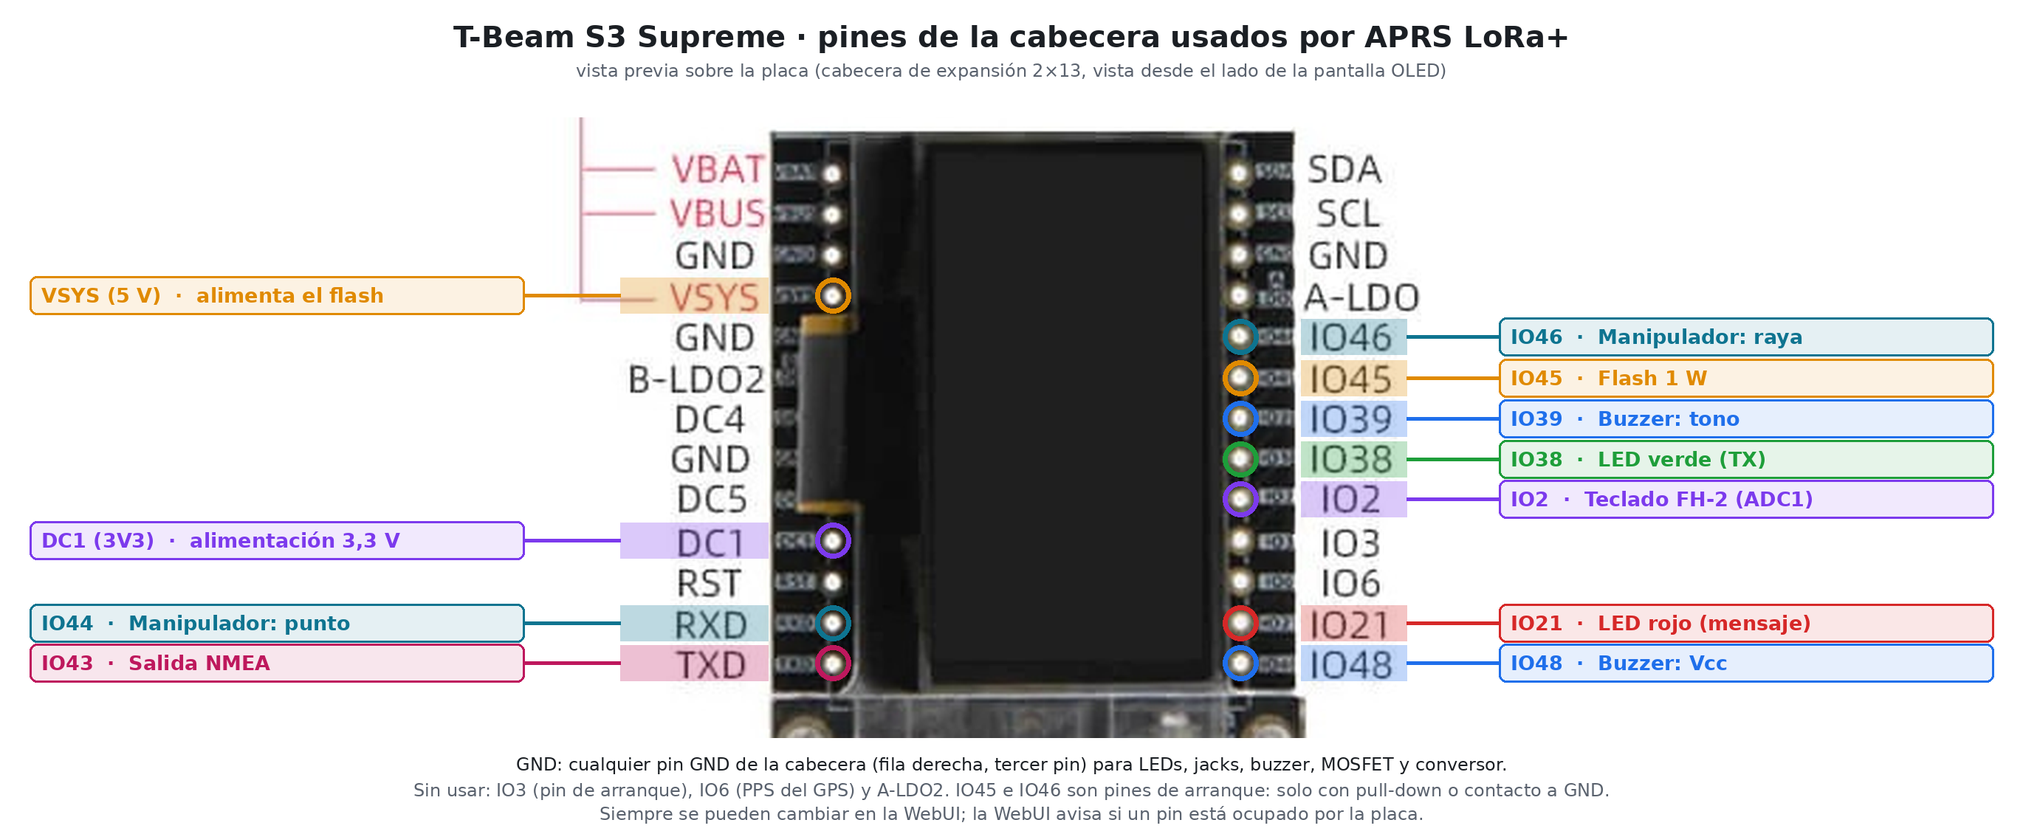
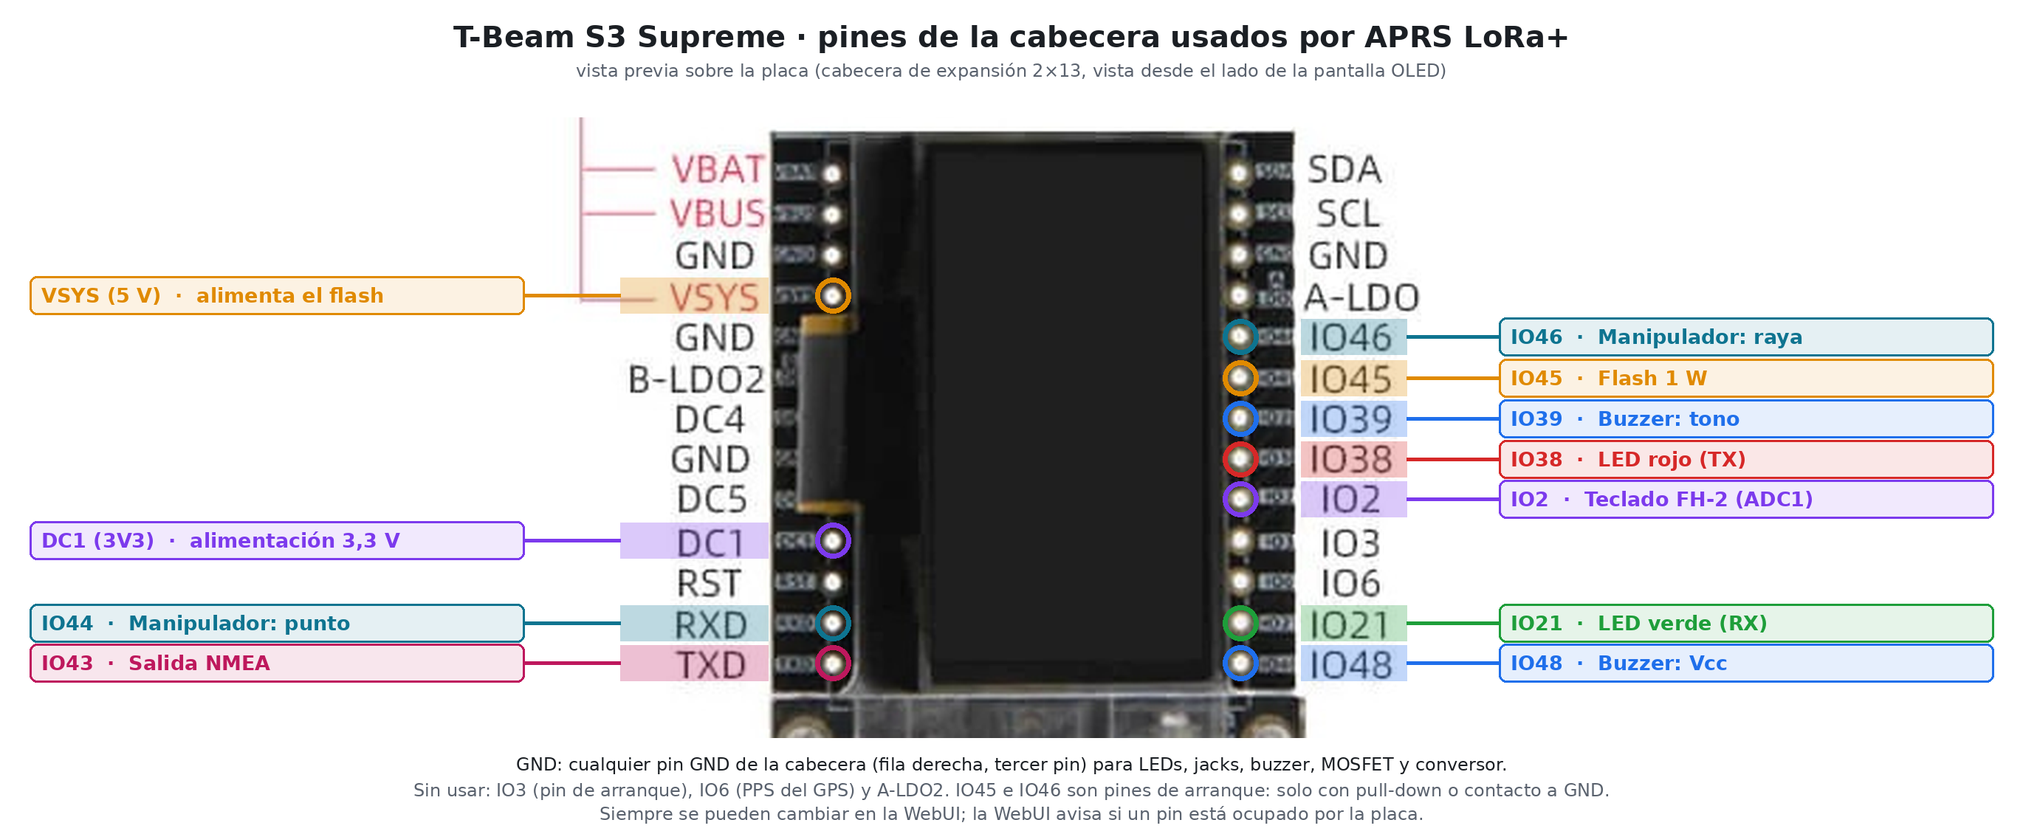
LEDs: rojo = Tx, verde = Rx (WebUI, docs, esquemas)
Claude-Session: https://claude.ai/code/session_01GDhYBy3QviPrNDemu3ZHMt

Changed region(s): [[0.5894, 0.7124, 0.8996, 0.7743], [0.5894, 0.5265, 0.8996, 0.5885]]

diff --git a/data_embed/index.html b/data_embed/index.html
@@ -1497,7 +1497,7 @@ body{background:var(--msh-bg);color:var(--msh-text);font-family:"Inter",system-u
                                     </details>
                                 </div>
                                 <div class="border rounded p-2 mb-2">
-                                    <div class="fw-semibold mb-1">Green LED <small class="text-muted fw-normal">Tx</small></div>
+                                    <div class="fw-semibold mb-1">Red LED <small class="text-muted fw-normal">Tx</small></div>
                                     <div class="row g-2">
                                         <div class="col-md-8 col-12">
                                         <div class="form-check form-switch">
@@ -1520,7 +1520,7 @@ body{background:var(--msh-bg);color:var(--msh-text);font-family:"Inter",system-u
                                     </div>
                                 </div>
                                 <div class="border rounded p-2 mb-2">
-                                    <div class="fw-semibold mb-1">Red LED <small class="text-muted fw-normal">Rx</small></div>
+                                    <div class="fw-semibold mb-1">Green LED <small class="text-muted fw-normal">Rx</small></div>
                                     <div class="row g-2">
                                         <div class="col-md-8 col-12">
                                         <div class="form-check form-switch">

diff --git a/include/configuration.h b/include/configuration.h
@@ -136,11 +136,11 @@ class Notification {
 public:
     bool    ledTx;
     int     ledTxPin;
-    bool    ledMessage;                         // LED rojo: parpadea mientras haya mensajes sin leer (y alarma de emergencia)
+    bool    ledMessage;                         // LED verde (Rx): parpadea mientras haya mensajes sin leer (y alarma de emergencia)
     int     ledMessagePin;
-    bool    ledRxBeacon;                        // LED rojo: destello corto por cada paquete recibido de otra estacion (balizas...)
-    bool    ledTxCw;                            // modo CW: LED verde = portadora emitida (tecla pulsada, macros, baliza CW)
-    bool    ledRxCw;                            // modo CW: LED rojo = senal CW recibida
+    bool    ledRxBeacon;                        // LED verde (Rx): destello corto por cada paquete recibido de otra estacion (balizas...)
+    bool    ledTxCw;                            // modo CW: LED rojo (Tx) = portadora emitida (tecla pulsada, macros, baliza CW)
+    bool    ledRxCw;                            // modo CW: LED verde (Rx) = senal CW recibida
     bool    flashCw;                            // modo CW: flash blanco = lampara Morse (manipulador y entrenador)
     bool    flashEmergency;                     // flash blanco: estroboscopio con una alarma de emergencia o la baliza SOS propia (necesita el flash activo)
     bool    ledFlashlight;

diff --git a/include/notification_utils.h b/include/notification_utils.h
@@ -38,11 +38,11 @@ namespace NOTIFICATION_Utils {
     void bell(Bell::Id id);         // melodia de campana APRS (sin bloqueos): se reproduce desde update()
     void update();                  // llamar en cada vuelta del loop
 
-    // Luces (LED verde / blanco / rojo) ligadas al zumbador y al modo CW; cada una solo actua si su LED esta activo en la WebUI
-    void lightTx(bool on);          // modo CW: LED verde = portadora emitida (WebUI: LEDs in CW mode)
+    // Luces (LED rojo Tx / blanco / verde Rx) ligadas al zumbador y al modo CW; cada una solo actua si su LED esta activo en la WebUI
+    void lightTx(bool on);          // modo CW: LED rojo (Tx) = portadora emitida (WebUI: LEDs in CW mode)
     void lightMorse(bool on);       // modo CW: flash blanco como lampara Morse (sigue el manipulador / entrenador)
-    void lightRx(bool on);          // modo CW: LED rojo = senal CW recibida
-    bool rxLedBusy();               // el LED rojo lo lleva ahora la recepcion CW (ledNotification no lo toca)
+    void lightRx(bool on);          // modo CW: LED verde (Rx) = senal CW recibida
+    bool rxLedBusy();               // el LED verde (Rx) lo lleva ahora la recepcion CW (ledNotification no lo toca)
     bool lampBusy();                // el flash lo lleva ahora el zumbador o la lampara Morse (checkFlashlight no lo toca)
 
 }

diff --git a/src/msg_utils.cpp b/src/msg_utils.cpp
@@ -183,7 +183,7 @@ namespace MSG_Utils {
     static bool     rxFlashPending  = false;
     static uint32_t rxFlashTime     = 0;
 
-    // Paquete recibido de otra estacion (baliza...): destello corto del LED rojo si esta elegido en la WebUI
+    // Paquete recibido de otra estacion (baliza...): destello corto del LED verde (Rx) si esta elegido en la WebUI
     void rxBlink() {
         if (!Config.notification.ledRxBeacon || Config.notification.ledMessagePin < 0) return;
         rxFlashPending = true;
@@ -194,7 +194,7 @@ namespace MSG_Utils {
         const bool msgLed = Config.notification.ledMessage;
         const bool rxLed  = Config.notification.ledRxBeacon;
         if ((!msgLed && !rxLed) || Config.notification.ledMessagePin < 0) return;
-        if (NOTIFICATION_Utils::rxLedBusy()) return;         // modo CW: el LED rojo sigue la senal recibida
+        if (NOTIFICATION_Utils::rxLedBusy()) return;         // modo CW: el LED verde (Rx) sigue la senal recibida
         const int pin = Config.notification.ledMessagePin;
 
         #ifdef HAS_APRS_PAGES

diff --git a/include/msg_utils.h b/include/msg_utils.h
@@ -39,7 +39,7 @@ namespace MSG_Utils {
     void    loadNumMessages();
     void    loadMessagesFromMemory(uint8_t typeOfMessage);
     void    ledNotification();
-    void    rxBlink();                  // paquete de otra estacion recibido: destello del LED rojo (si esta elegido)
+    void    rxBlink();                  // paquete de otra estacion recibido: destello del LED verde (Rx) (si esta elegido)
     void    deleteFile(uint8_t typeOfFile);
     void    saveNewMessage(uint8_t typeMessage, const String& station, const String& newMessage);
     void    sendMessage(const String& station, const String& textMessage);

diff --git a/src/notification_utils.cpp b/src/notification_utils.cpp
@@ -37,7 +37,7 @@ namespace NOTIFICATION_Utils {
 
     // ---- Luces ligadas al zumbador y al modo CW ------------------------------------------------------------------------
     static bool lampLit     = false;        // el flash lo lleva una luz (sirena / lampara Morse)
-    static bool rxLedOwned  = false;        // el LED rojo lo lleva la recepcion CW
+    static bool rxLedOwned  = false;        // el LED verde (Rx) lo lleva la recepcion CW
 
     // Flash blanco: enciende / apaga; al apagarse recupera el estado de la linterna manual
     static void lampSet(bool on) {

diff --git a/src/pages_utils.cpp b/src/pages_utils.cpp
@@ -3420,7 +3420,7 @@ namespace PAGES_Utils {
                 keyed = k;
                 if (keyed) decoder.keyDown(now); else decoder.keyUp(now);
                 if (tone) NOTIFICATION_Utils::sidetone(keyed);
-                NOTIFICATION_Utils::lightRx(keyed);                    // LED rojo = senal CW recibida
+                NOTIFICATION_Utils::lightRx(keyed);                    // LED verde (Rx) = senal CW recibida
                 snprintf(cwPending, sizeof(cwPending), "%s", decoder.pending());
             }
             char c = decoder.tick(now);

diff --git a/src/lora_utils.cpp b/src/lora_utils.cpp
@@ -780,7 +780,7 @@ namespace LoRa_Utils {
     }
 
     void cwKey(bool on) {
-        NOTIFICATION_Utils::lightTx(on);                    // LED verde = portadora (si esta elegido: LEDs in CW mode)
+        NOTIFICATION_Utils::lightTx(on);                    // LED rojo (Tx) = portadora (si esta elegido: LEDs in CW mode)
         NOTIFICATION_Utils::lightMorse(on);                 // flash blanco = lampara Morse
         #if defined(HAS_SX1262) || defined(HAS_SX1268)
             if (on) {

diff --git a/CHANGELOG.md b/CHANGELOG.md
@@ -2,9 +2,9 @@
 
 ## 5.3.3 — 2026-11-05
 - **Guía de pines en todas las placas:** la WebUI identifica los pines (libre / ocupado por la placa / con cuidado / solo entrada) en cualquier firmware, no solo en la Supreme. La lista la genera el firmware a partir de los pines que declara cada placa (radio, GPS, pantalla, botones, batería, flash, USB) y se lee en `/api/pins`; el botón de pines sugeridos rellena solo pines libres (el teclado FH-2, en uno ADC1). Los pines por defecto de LEDs, flash y buzzer pasan a «sin asignar» si los ocupa la placa (antes, por ejemplo, el 13 y el 14 chocaban con la radio de las Heltec V3), y el firmware rechaza esos pines y los de solo entrada para LEDs, buzzer, PTT y NMEA en todas las placas. Sin probar en placa.
-- **T-Beam S3 Supreme, hardware externo:** esquema y reparto de pines para LED verde, LED rojo, flash de alta intensidad, buzzer KY-006 (pasivo), manipulador, teclado FH-2 y salida NMEA al conversor TTL-RS422 (`docs/HARDWARE_SUPREME_EXTRAS.md`). La WebUI identifica cada pin de la cabecera (libre, a evitar u ocupado por la placa), avisa si se repite y rellena los pines sugeridos con un botón. Los pines por defecto de LEDs, flash y buzzer en la Supreme pasan a 38 / 21 / 45 / 39 / 48 (antes chocaban con la radio, el RTC y el IMU). Nuevo en la WebUI: *NMEA output* (pin TX y velocidad de la UART, antes fijos en el firmware; aplica al reiniciar). El manipulador CW y el teclado FH-2 ignoran los pines que ocupa la placa, y la lista de pines reservados incluye USB y flash/PSRAM. Sin probar en placa.
+- **T-Beam S3 Supreme, hardware externo:** esquema y reparto de pines para LED rojo (Tx), LED verde (Rx), flash de alta intensidad, buzzer KY-006 (pasivo), manipulador, teclado FH-2 y salida NMEA al conversor TTL-RS422 (`docs/HARDWARE_SUPREME_EXTRAS.md`). La WebUI identifica cada pin de la cabecera (libre, a evitar u ocupado por la placa), avisa si se repite y rellena los pines sugeridos con un botón. Los pines por defecto de LEDs, flash y buzzer en la Supreme pasan a 38 / 21 / 45 / 39 / 48 (antes chocaban con la radio, el RTC y el IMU). Nuevo en la WebUI: *NMEA output* (pin TX y velocidad de la UART, antes fijos en el firmware; aplica al reiniciar). El manipulador CW y el teclado FH-2 ignoran los pines que ocupa la placa, y la lista de pines reservados incluye USB y flash/PSRAM. Sin probar en placa.
 - **CAT / Hamlib por WiFi:** servidor TCP (puerto 4532) con el protocolo *NET rigctl* de Hamlib (`rigctl -m 2`): frecuencia, modo (APRS LoRa = `PKTFMN`, APRS FSK = `PKTFM`), RSSI y potencia; PTT opcional = enviar una baliza APRS; ventana de sintonía configurable (0 = fija). No es una radio de audio. Comparte el enlace WiFi con KISS; interruptor en la WebUI (Connectivity > CAT over WiFi) y en SYSTEM (*WiFi CAT*). Especificación pública en `docs/CAT_HAMLIB.md`; protocolo probado en PC contra Hamlib 4.6.5 (`tools/cat_net`). Sin probar en placa. Manual, apartado 33.
-- **LEDs de notificación seleccionables:** el LED rojo puede avisar de mensajes sin leer (parpadeo, y rápido con una emergencia) y/o dar un destello corto por cada baliza o paquete oído de otra estación; el LED blanco (flash) se enciende en sincronía con la sirena del zumbador durante una alarma de emergencia recibida o tu propia baliza SOS (sin zumbador: ráfagas de 200 ms por segundo, 5 minutos como máximo). **Modo CW** (un interruptor por LED): el verde sigue la portadora (tecla pulsada, también macros y baliza CW), el blanco hace de lámpara Morse (manipulador y entrenador) y el rojo se enciende con la señal CW recibida. La sección *Notifications* de la WebUI se reorganiza en un cuadro por dispositivo (LED verde, LED rojo, flash blanco, zumbador), cada uno con sus interruptores y su pin; todos apagados por defecto. Sin probar en placa.
+- **LEDs de notificación seleccionables:** el LED verde (Rx) puede avisar de mensajes sin leer (parpadeo, y rápido con una emergencia) y/o dar un destello corto por cada baliza o paquete oído de otra estación; el LED blanco (flash) se enciende en sincronía con la sirena del zumbador durante una alarma de emergencia recibida o tu propia baliza SOS (sin zumbador: ráfagas de 200 ms por segundo, 5 minutos como máximo). **Modo CW** (un interruptor por LED): el rojo (Tx) sigue la portadora (tecla pulsada, también macros y baliza CW), el blanco hace de lámpara Morse (manipulador y entrenador) y el verde (Rx) se enciende con la señal CW recibida. La sección *Notifications* de la WebUI se reorganiza en un cuadro por dispositivo (LED rojo Tx, LED verde Rx, flash blanco, zumbador), cada uno con sus interruptores y su pin; todos apagados por defecto. Sin probar en placa.
 - **CAT por USB:** el mismo protocolo del CAT por el puerto serie USB de la placa (115200 baudios), con interruptor propio en la WebUI (Connectivity > CAT; apagado por defecto, aplica al reiniciar). Con él activo el log de ese puerto solo muestra errores para no mezclarse con las respuestas, y `APRS-INFO?` del instalador web sigue funcionando. Hamlib no trae un modelo serie para este protocolo: el backend de `tools/hamlib_backend` añade el modelo «APRS LoRa+ tracker (USB)» (13 en el parche 4.7.2; DTR y RTS apagados para no reiniciar la placa). Probado en PC con `rigctl` 4.7.2 a través de un seudoterminal; sin probar en placa.
 - **SYSTEM:** el estado de WiFi ya se ve (antes siempre ponía `off`): `CON` si el KISS por WiFi está unido a tu red, `..` mientras se une, `AP` en el punto de acceso. Con Bluetooth o WiFi activos, **1P** alterna a una vista **LINK** (no es una página más) con los detalles de las conexiones: Bluetooth (tipo, protocolo, nombre, móvil conectado) y WiFi (red, **IP**, puertos KISS, clientes, señal). Nuevo submenú (LP): **Bluetooth ON/OFF**, **BT data KISS/TNC2** (guardan y reinician) y **WiFi KISS ON/OFF** (al momento). Sin probar en placa.
 - **KISS por WiFi:** probado con APRSdroid en Android por TCP en **LoRa y FSK**. El nombre de equipo (`aprs-lora-plus`) se fija antes de crear la interfaz WiFi, para que el router y mDNS lo vean en vez de «esp…» (muchas apps de Android no resuelven `.local`: usa la IP de la vista LINK).

diff --git a/docs/HARDWARE_SUPREME_EXTRAS.md b/docs/HARDWARE_SUPREME_EXTRAS.md
@@ -10,9 +10,9 @@ Copyright (C) 2026 Manuel - EA7JRS. Esquema y reparto de pines para añadir hard
 
 | Función | GPIO | Cabecera | WebUI | Notas |
 |---|---|---|---|---|
-| LED verde (TX) | 38 | IO38 | Hardware → Notification → *Pin used for Tx Led* | 220 Ω en serie |
-| LED rojo (mensaje / alarma) | 21 | IO21 | *Pin used for Message Rx Led* | 220 Ω en serie |
-| Flash de alta intensidad | 45 | IO45 | *Pin used for Flashlight Pin* | MOSFET de nivel lógico; LED desde VSYS (5 V) |
+| LED rojo (TX) | 38 | IO38 | Hardware → Notifications → *Tx LED pin* | 220 Ω en serie |
+| LED verde (RX: mensajes / balizas) | 21 | IO21 | *Rx LED pin* | 220 Ω en serie |
+| Flash de alta intensidad | 45 | IO45 | *Flash pin* | MOSFET de nivel lógico; LED desde VSYS (5 V) |
 | Buzzer, tono | 39 | IO39 | *Buzzer Tone Pin* | módulo **KY-006** (piezo pasivo), pin **S** |
 | Buzzer, Vcc | 48 | IO48 | *Buzzer Vcc Pin* | pin **+** (central) del KY-006; a nivel alto solo mientras suena |
 | Teclado Yaesu FH-2 | 2 | IO2 (ADC1) | Transmission mode → CW / Morse → *FH-2 keypad ADC GPIO* | 10 kΩ a 3V3 (pin DC1) |
@@ -32,7 +32,7 @@ Sin usar: IO3 (pin de arranque), IO6 (PPS del GPS) y A-LDO2. Los defaults de fá
 
 ## Notas por bloque
 
-- **LEDs:** 220 Ω da unos 5 mA a 3,3 V; para más brillo baja a 150 Ω (máx. 12 mA por GPIO). **Verde:** se enciende al transmitir. **Rojo** (a elegir en la WebUI, pueden activarse los dos): parpadea mientras haya mensajes sin leer, con parpadeo rápido si llega una emergencia, y/o da un destello corto por cada baliza o paquete oído de otra estación. **Blanco (flash):** linterna desde el menú EXTRAS y, si lo activas (*White flash*), se enciende y se apaga con cada nota de la sirena del zumbador durante una alarma de emergencia recibida o tu propia baliza SOS (sin zumbador: ráfagas de 200 ms por segundo, 5 minutos como máximo para no calentar el LED de 1 W). El flash debe estar activo. **Modo CW** (un interruptor por LED en la sección *Notifications*): verde = portadora emitida (tecla pulsada, macros y baliza CW), blanco = lámpara Morse que sigue el manipulador y el entrenador, rojo = señal CW recibida.
+- **LEDs:** 220 Ω da unos 5 mA a 3,3 V; para más brillo baja a 150 Ω (máx. 12 mA por GPIO). **Rojo (Tx):** se enciende al transmitir. **Verde (Rx)** (a elegir en la WebUI, pueden activarse los dos): parpadea mientras haya mensajes sin leer, con parpadeo rápido si llega una emergencia, y/o da un destello corto por cada baliza o paquete oído de otra estación. **Blanco (flash):** linterna desde el menú EXTRAS y, si lo activas (*White flash*), se enciende y se apaga con cada nota de la sirena del zumbador durante una alarma de emergencia recibida o tu propia baliza SOS (sin zumbador: ráfagas de 200 ms por segundo, 5 minutos como máximo para no calentar el LED de 1 W). El flash debe estar activo. **Modo CW** (un interruptor por LED en la sección *Notifications*): rojo = portadora emitida (tecla pulsada, macros y baliza CW), blanco = lámpara Morse que sigue el manipulador y el entrenador, verde = señal CW recibida.
 - **Flash:** LED blanco de 1 W (Vf ≈ 3,2 V, 350 mA) desde VSYS (5 V, máx. 500 mA) con R3 = 5,1 Ω / 1 W; Q1 = AO3400A (o IRLML6344), R4 = 100 Ω, R5 = 100 kΩ. LED y Q1 sobre un pequeño disipador. Para más corriente, módulo LED con driver propio alimentado de VBAT. Es una salida encendido / apagado; el estroboscopio lo hace el firmware.
 - **Buzzer:** módulo **KY-006** (piezo **pasivo**, 3,3–5 V; el firmware genera tonos y melodías, uno activo solo da un tono fijo). Conexión: **S → IO39**, **+** (pin central) **→ IO48**, **−** → GND. Sin resistencia ni transistor: el módulo se excita directo desde el GPIO. Con IO48 el módulo solo recibe alimentación mientras suena; si tu módulo no tiene el pin central conectado, deja IO48 libre, no afecta. Antes de conectar, comprueba con el polímetro que el pin central y S no están unidos entre sí (según el fabricante el central va a + o está al aire). También es el sidetone del manipulador.
 - **FH-2:** conecta el teclado entre IO2 y GND con 10 kΩ de IO2 a 3V3 (DC1). Mide con el polímetro los dos contactos del conector que cierra cada tecla y calibra las teclas 1–5 en la WebUI (ver `CW_MORSE.md`). 100 nF de IO2 a GND ayuda contra RF.

diff --git a/docs/releases/RELEASE_5.3.3.md b/docs/releases/RELEASE_5.3.3.md
@@ -1,9 +1,9 @@
 # APRS LoRa+ 5.3.3
 
 - **CAT / Hamlib por WiFi**: servidor *NET rigctl* en el puerto 4532 (`rigctl -m 2 -r aprs-lora-plus.local:4532 f`). Frecuencia, modo (APRS LoRa / APRS FSK), RSSI y potencia; PTT opcional = enviar una baliza APRS; ventana de sintonía configurable. Interruptor en la WebUI y en SYSTEM. Especificación pública (`docs/CAT_HAMLIB.md`) y backend nativo para Hamlib 4.7.2 (`tools/hamlib_backend`). No es una radio de audio. Manual, apartado 33.
-- **T-Beam S3 Supreme, hardware externo**: esquema y pines para LED verde, LED rojo, flash de alta intensidad, buzzer KY-006, jacks del manipulador y del FH-2 y salida NMEA al conversor TTL-RS422 (`docs/HARDWARE_SUPREME_EXTRAS.md`). La WebUI identifica cada pin de la cabecera, avisa de repetidos y rellena los sugeridos. Pines por defecto en la Supreme: 38 / 21 / 45 / 39 / 48 (los anteriores chocaban con la radio, el RTC y el IMU). Nuevo en la WebUI: *NMEA output* (pin TX y velocidad).
+- **T-Beam S3 Supreme, hardware externo**: esquema y pines para LED rojo (Tx), LED verde (Rx), flash de alta intensidad, buzzer KY-006, jacks del manipulador y del FH-2 y salida NMEA al conversor TTL-RS422 (`docs/HARDWARE_SUPREME_EXTRAS.md`). La WebUI identifica cada pin de la cabecera, avisa de repetidos y rellena los sugeridos. Pines por defecto en la Supreme: 38 / 21 / 45 / 39 / 48 (los anteriores chocaban con la radio, el RTC y el IMU). Nuevo en la WebUI: *NMEA output* (pin TX y velocidad).
 - **Guía de pines en todas las placas**: la WebUI identifica los pines libres, ocupados por la placa, con cuidado y solo entrada en cualquier firmware, con una sugerencia de pines libres; los pines por defecto de LEDs, flash y buzzer quedan sin asignar si los ocupa la placa.
-- **LEDs de notificación seleccionables**: LED rojo para mensajes y/o balizas oídas; flash blanco en sincronía con la sirena del zumbador en emergencias y LEDs en modo CW (verde = portadora, blanco = lámpara Morse, rojo = señal recibida), con un interruptor por LED. La sección Notifications de la WebUI se organiza ahora en un cuadro por dispositivo. Sin probar en placa.
+- **LEDs de notificación seleccionables**: LED verde (Rx) para mensajes y/o balizas oídas; flash blanco en sincronía con la sirena del zumbador en emergencias y LEDs en modo CW (rojo = portadora, blanco = lámpara Morse, verde = señal recibida), con un interruptor por LED. La sección Notifications de la WebUI se organiza ahora en un cuadro por dispositivo. Sin probar en placa.
 - **CAT por USB**: el mismo CAT por el puerto serie de la placa (WebUI, Connectivity > CAT; apagado por defecto). Para Hamlib hace falta el backend de `tools/hamlib_backend` (modelo USB). Sin probar en placa.
 - **SYSTEM**: se ve el estado del WiFi y hay una vista **LINK** con los detalles de Bluetooth y WiFi (IP, puertos, clientes); submenú con Bluetooth, formato de datos BT y WiFi KISS / CAT.
 - **KISS por WiFi** probado con APRSdroid en LoRa y FSK; el nombre de equipo `aprs-lora-plus` se aplica antes de crear la interfaz WiFi.

diff --git a/README.md b/README.md
@@ -21,7 +21,7 @@ Mantiene todo lo de la base (APRS LoRa, GPS, mensajes, telemetría, Bluetooth/KI
 | **WebUI** | Reorganizada por secciones, con un grupo de ajustes por modo y cabecera «APRS LoRa+ / Tracker versión». |
 | **KISS por WiFi** *(5.3.2, sin probar)* | TNC KISS por TCP (8001) y UDP opcional para APRSDroid, Xastir o YAAC a través de tu WiFi o del punto de acceso del móvil. Interruptor en la WebUI. Solo APRS LoRa y APRS FSK en ESP32-S3 / C3. Ver el manual, apartado 32. |
 | **CAT por WiFi y USB (Hamlib)** *(5.3.3, sin probar)* | Servidor NET rigctl (puerto 4532, `rigctl -m 2`) y el mismo protocolo por el puerto USB: frecuencia, modo, RSSI y potencia; PTT opcional = baliza APRS. Especificación pública y backend de Hamlib 4.7.2 en `docs/CAT_HAMLIB.md` y `tools/hamlib_backend`. Manual, apartado 33. |
-| **Hardware externo en la T-Beam S3 Supreme** *(5.3.3, sin probar)* | Esquema y pines para LED verde y rojo, flash de 1 W, buzzer KY-006, jacks del manipulador y del FH-2 y salida NMEA; la WebUI identifica cada pin y rellena los sugeridos. Ver `docs/HARDWARE_SUPREME_EXTRAS.md`. |
+| **Hardware externo en la T-Beam S3 Supreme** *(5.3.3, sin probar)* | Esquema y pines para LED rojo (Tx) y verde (Rx), flash de 1 W, buzzer KY-006, jacks del manipulador y del FH-2 y salida NMEA; la WebUI identifica cada pin y rellena los sugeridos. Ver `docs/HARDWARE_SUPREME_EXTRAS.md`. |
 | **Instalar y actualizar** *(5.3.1, sin probar)* | Instalador web por USB que reconoce la placa y la versión instalada, actualización desde la WebUI (archivo o internet) en placas con dos copias de firmware y actualización automática opcional. Ver el manual, apartado 30. |
 | **Identificación de equipos** | Lista oficial aprs-deviceid (tocalls y sufijos Mic-E). |
 
